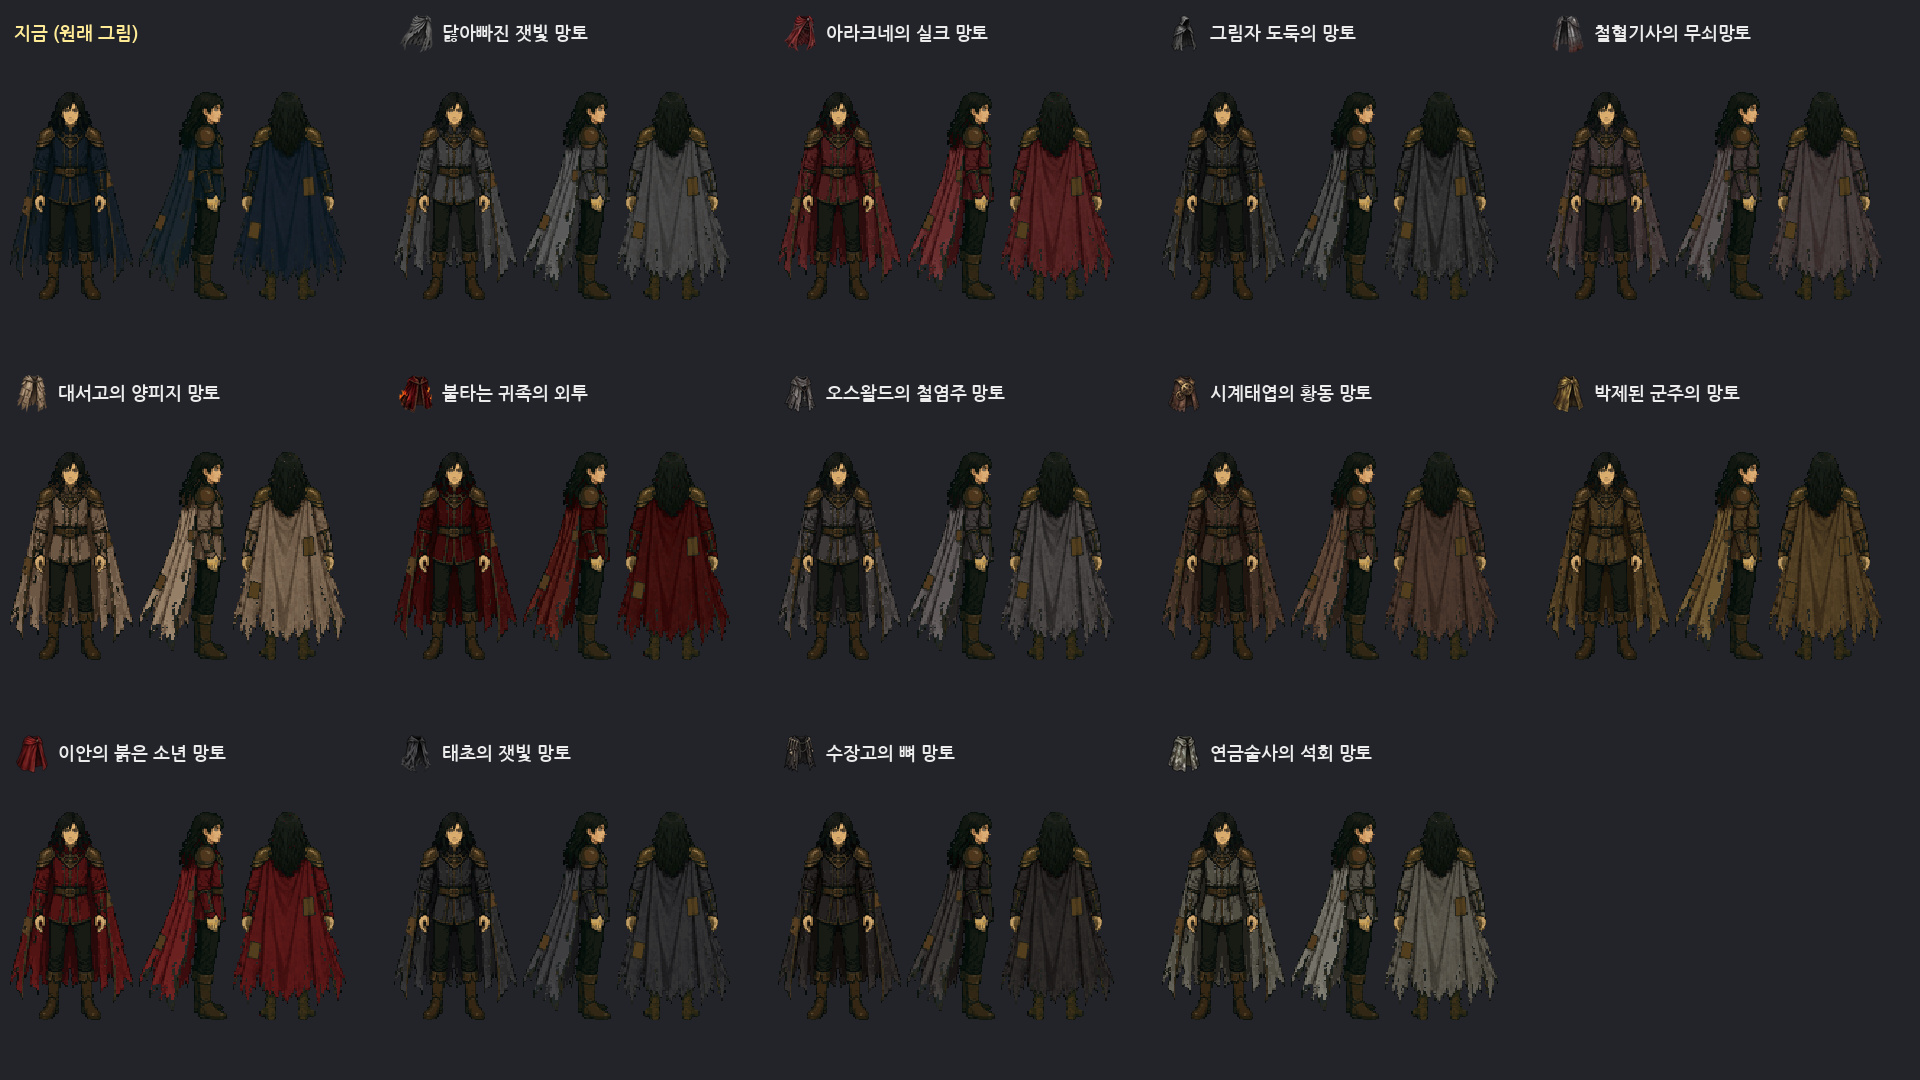
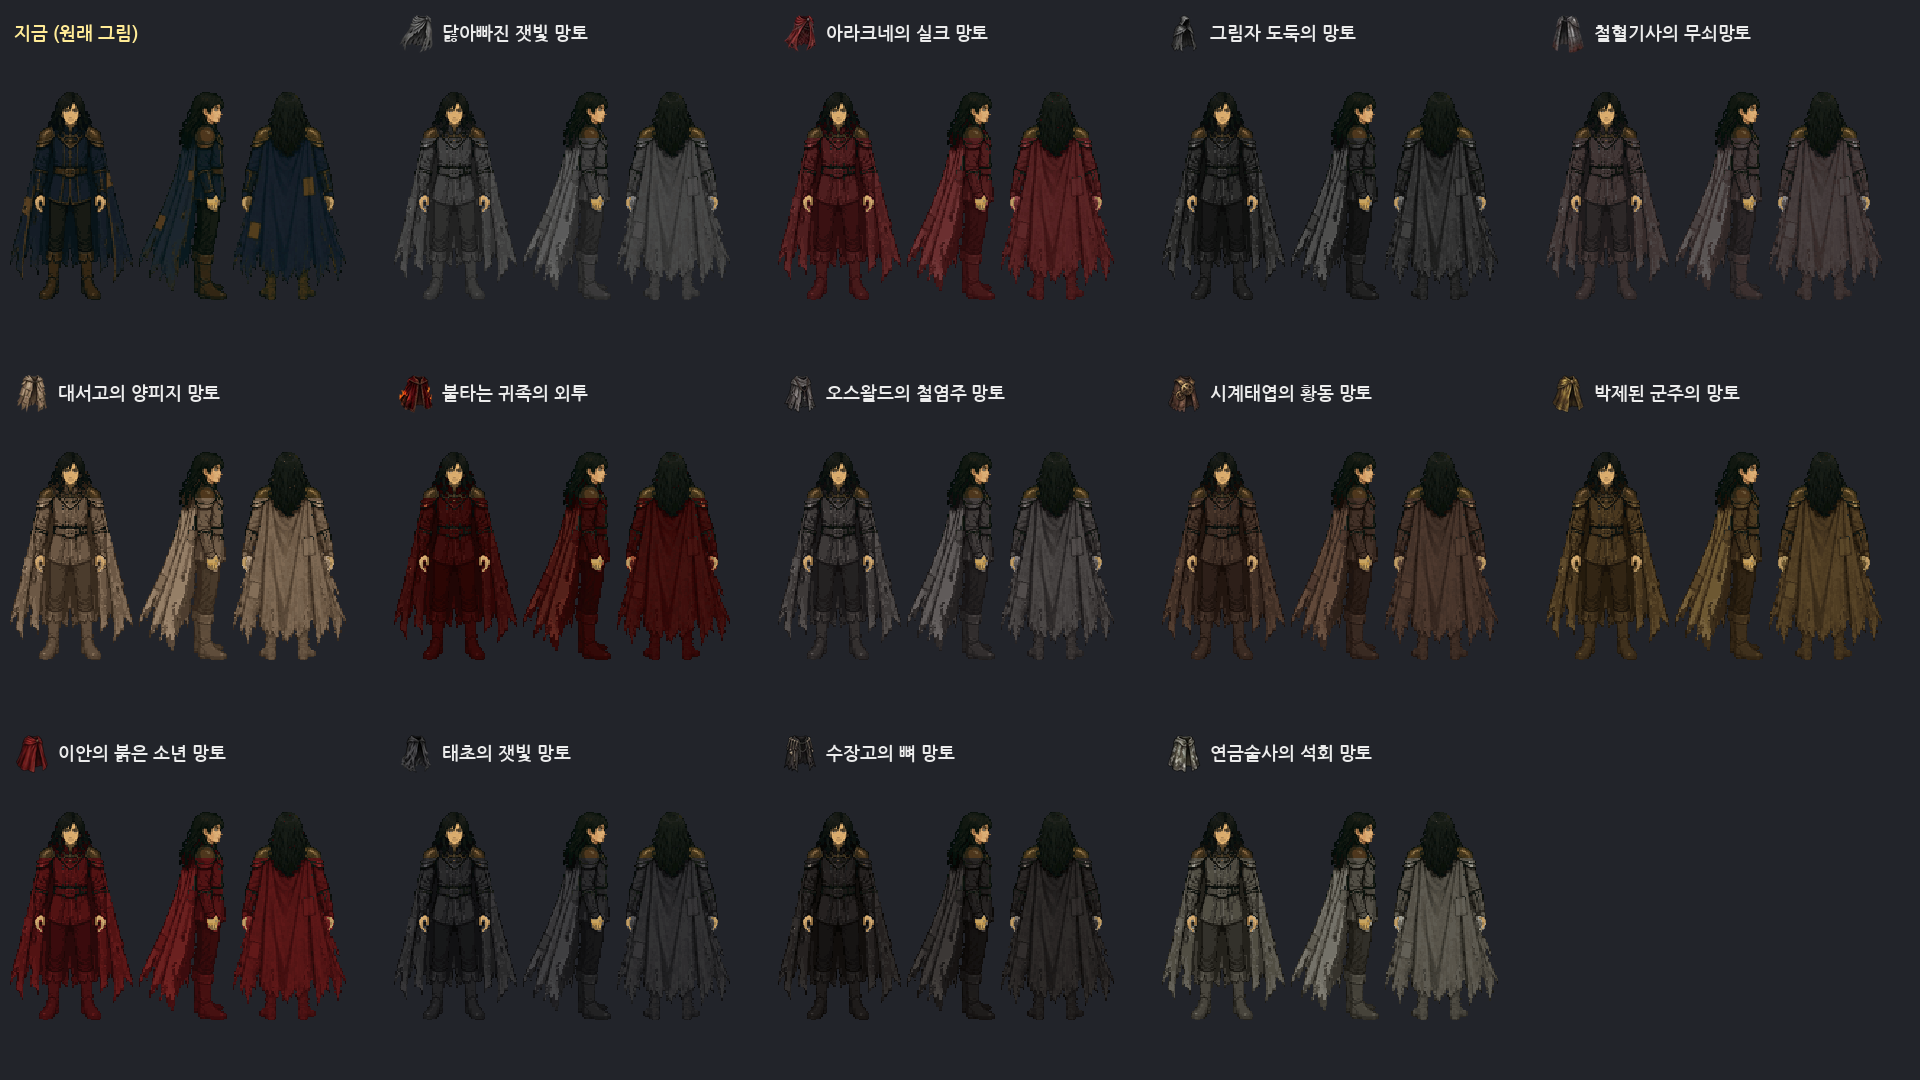
주인공 옷 전체 색 = 망토 색 (사장님 10-31 「바지색깔도」 「옷전체 색깔 다 바꿔야된다구」): 색판 1458색 [그대로/옷] 표 + 높이 규칙, 13종 표 다시, 교본
Claude-Session: https://claude.ai/code/session_01Ed92eTBNbhN1yf3zW3burX

diff --git a/handoff/claude/hero3_v1/outfit/outfit.py b/handoff/claude/hero3_v1/outfit/outfit.py
@@ -1,6 +1,7 @@
 # 망토 색에 맞춰 옷(코트+망토, 남색 부분 전부)을 같이 바꾸는 가안
 # 쓰는 법: python3 outfit.py → navy_mask.png(바뀌는 자리), outfit_sheet.png(망토별 옷 색). ic/<망토id>.webp = test128/assets/icons/grok/<id>_128.webp 복사본
-# 규칙(사장님 10-31 「망토색에 따라서 옷색깔도 전부 바꿔야」): 남색(파랑-빨강 ≥ 8) 칸 = 코트+망토 → 망토 아이콘 색 띠로 밝기 순서대로 바꿈. 밝기 기준은 서기 3장에서 한 번 정해 모든 장에 똑같이 씀.
+# 규칙(사장님 10-31 「망토색에 따라서 옷색깔도 전부 바꿔야」 「바지색깔도」 「옷전체 색깔 다」): 살·머리 빼고 옷 전체. 색판 1458색을 classify.py로 [그대로/옷] 나눔.
+# 옛 규칙: 남색(파랑-빨강 ≥ 8) 칸 = 코트+망토 → 망토 아이콘 색 띠로 밝기 순서대로 바꿈. 밝기 기준은 서기 3장에서 한 번 정해 모든 장에 똑같이 씀.
 from PIL import Image, ImageDraw, ImageFont
 import numpy as np
 import os
@@ -22,10 +23,35 @@ views=['down_face','right_face','up']
 src={v:np.array(Image.open(G+v+'.png').convert('RGBA')) for v in views}
 allv=np.concatenate([lum(src[v][...,:3].astype(float))[navy(src[v])] for v in views])
 P5,P50,P95=np.percentile(allv,[5,50,95]); print('남색 밝기 기준',P5,P50,P95)
-def recolor(a,R):
-    m=navy(a); b=a.astype(float).copy(); L=lum(b[...,:3])
-    t=0.5+(L-P50)/max(1,P95-P5)*0.8          # 모든 장에 같은 기준(장마다 안 바뀜)
-    idx=np.clip((t*(len(R)-1)).round().astype(int),0,len(R)-1)
+import json as _json
+CLS={tuple(int(t) for t in k.split(',')):v for k,v in _json.load(open(H+'palette_class.json')).items()}   # classify.py
+def outfit_mask(a,boxes=None):
+    """옷 칸 = 살·머리·눈 빼고 전부. boxes = 그림판 칸 [x,y,w,h,…] 목록(없으면 그림 전체가 한 사람)."""
+    r,g,b=[a[...,i].astype(int) for i in range(3)]; L=.299*r+.587*g+.114*b; op=a[...,3]>100
+    nv=(b-r>=8)&(b>=g-4); warm=(r-b>=10)
+    flat=a[...,:3].reshape(-1,3); keys=flat[:,0].astype(np.int64)*65536+flat[:,1].astype(np.int64)*256+flat[:,2]
+    keepk=np.array([c[0]*65536+c[1]*256+c[2] for c,v in CLS.items() if v=='keep'],np.int64)
+    voted_keep=np.isin(keys,keepk).reshape(a.shape[:2])
+    rel=np.ones(a.shape[:2])          # 사람 키 안에서 위→아래 0..1
+    if boxes is None: boxes=[(0,0,a.shape[1],a.shape[0])]
+    for bx in boxes:
+        x,y,w,h=bx[:4]; sub=op[y:y+h,x:x+w]; ys=np.nonzero(sub.any(1))[0]
+        if len(ys)==0: continue
+        t0,t1=ys.min(),ys.max()+1; yy=np.arange(h)[:,None]
+        rel[y:y+h,x:x+w]=np.broadcast_to((yy-t0)/max(1,t1-t0),(h,w))
+    skin=warm&(L>=95)&(r>b+30)
+    head=rel<0.22
+    dark=~nv&~warm&(L<50)
+    keep=skin|(warm&head)|(dark&(rel<0.42))|(warm&voted_keep&(L>=70))|(~nv&~warm&(L>=50))
+    return op&~keep
+def recolor(a,R,boxes=None):
+    # 옷 전체(사장님 10-31 「바지색깔도」 「옷전체 색깔 다 바꿔야된다구」): 코트·망토(남색) = 망토 색 띠 가운데, 바지·장화·허리띠·어깨 = 같은 띠에서 제 밝기대로. 살·머리는 그대로
+    m=outfit_mask(a,boxes); nv=navy(a)&m; ot=m&~nv
+    b=a.astype(float).copy(); L=lum(b[...,:3]); n=len(R)-1
+    t=np.zeros(L.shape)
+    t[nv]=0.5+(L[nv]-P50)/max(1,P95-P5)*0.8
+    t[ot]=0.08+(L[ot]-10)/75*0.85           # 어두운 바지 = 띠 아래쪽, 밝은 청동 = 띠 위쪽
+    idx=np.clip((t*n).round().astype(int),0,n)
     b[m,:3]=R[idx][m]; return b.astype(np.uint8),m
 if __name__=='__main__':
     # 남색 고른 자리 보기

diff --git a/handoff/claude/hero3_v1/outfit/classify.py b/handoff/claude/hero3_v1/outfit/classify.py
@@ -1,0 +1,31 @@
+# 주인공 색판(1458색) 하나하나를 [살·머리 = 그대로] / [옷 = 망토 색으로]로 나눔. 서기 3장에서 자리별로 표를 모아 정함.
+import numpy as np, json
+from PIL import Image
+H='/home/user/thor-like-game/handoff/claude/hero3_v1/'
+G=H+'game144/'
+V={'down_face':{'keep':[(94,106,116,129),(79,170,92,188),(116,170,129,188),(84,100,128,116),(80,112,94,134),(116,112,130,134)],
+               'out':[(90,136,120,182),(64,150,84,240),(126,150,149,240),(88,186,122,211),(84,214,124,245),(84,122,96,138),(114,122,128,138)]},
+   'right_face':{'keep':[(121,106,137,128),(117,170,131,190),(96,102,121,150)],
+               'out':[(112,130,140,182),(83,150,110,240),(112,186,140,246),(115,124,134,140)]},
+   'up':{'keep':[(88,102,120,168),(62,168,74,190),(134,168,146,190)],
+         'out':[(70,180,140,238),(72,130,88,165),(122,130,138,165),(80,222,126,246)]}}
+votes={}
+for v,R in V.items():
+    a=np.array(Image.open(G+v+'.png').convert('RGBA'))
+    for cls,boxes in R.items():
+        for x0,y0,x1,y1 in boxes:
+            c=a[y0:y1,x0:x1].reshape(-1,4); c=c[c[:,3]>100]
+            for px in c:
+                k=tuple(int(t) for t in px[:3]); votes.setdefault(k,[0,0]); votes[k][0 if cls=='keep' else 1]+=1
+allc={tuple(int(t) for t in px[:3]) for v in V for px in np.array(Image.open(G+v+'.png').convert('RGBA')).reshape(-1,4) if px[3]>100}
+def rule(c):
+    r,g,b=c; L=.299*r+.587*g+.114*b
+    if r>110 and r>b+30 and g>70 and r-g<70: return 'keep'   # 살색 비슷
+    return 'out'
+lab={}
+for c in allc:
+    k,o=votes.get(c,[0,0])
+    if k+o==0: lab[c]=rule(c)
+    else: lab[c]='keep' if k*1.0>o*1.5 else 'out'      # 애매하면 옷(남색 머리카락 끝은 옷 쪽으로 감)
+print('색',len(allc),'그대로',sum(1 for c in lab if lab[c]=='keep'),'옷',sum(1 for c in lab if lab[c]=='out'))
+json.dump({'%d,%d,%d'%c:l for c,l in lab.items()},open(H+'outfit/palette_class.json','w'))

diff --git a/handoff/claude/MOTION_TEXTBOOK_ko.md b/handoff/claude/MOTION_TEXTBOOK_ko.md
@@ -184,7 +184,7 @@
 - 맞기 3장·쓰러짐: **같은 얼굴**(아파하는 얼굴 그리지 않음), 몸짓으로.
 - 점프: 공중에서 다리 모음, 착지 자세는 땅에서만.
 - **공격 4타 + 칼 바꾸기 (사장님 10-31 「검을 4회 휘두를 거야」 「칼이 아이템이 바뀌면 주인공이 들고 있는 칼도 바꿔야」 「좋아 이걸로 하자」)**: 칼은 몸 그림에 굽지 않음. 그록 영상은 **분홍 한 가지 색 임시 칼**(`그록_부탁글_공격4타3.md`) → 장마다 손 자리·칼 각도·몸 앞/뒤를 재고 분홍은 지움 → 게임이 장착한 칼 그림을 그 자리·각도로 그림, 검흔·판정은 칼끝 길. **손에 드는 칼 그림** = 도감 아이콘(`test128/assets/icons/grok/<id>_128.webp`, 45°)을 세워 한 번 줄임(`hero3_v1/weapons_hand/make_hand.py`, 확정 길이: 장검 65·대검 85·창검 112칸 = 가안의 0.85배). 4타 = 가로베기 → 되돌려 베기 → 올려베기 → 내려찍기(마무리). **공속(휘두르는 빠르기)은 나중에 정함** (사장님 10-31 「공속은 나중에 정하지머」) → 지금은 영상 빠르기 그대로 넣고, 빠르기는 숫자 하나(배속)로 바꿀 수 있게 만든다.
-- **옷 색 = 망토 색 (사장님 10-31 「망토색에 따라서 옷색깔도 전부 바꿔야」)**: 망토를 바꾸면 코트+망토(그림의 남색 칸 전부)가 그 망토 색으로 같이 바뀜. 남색 칸 = 파랑−빨강 ≥ 8 (어깨 청동·띠·허리띠·덧댄 천·바지·장화·머리·얼굴은 안 바뀜). 망토 아이콘(`icons/grok/<id>_128.webp`) 색을 밝기 순서 띠로 만들어, 남색 밝기 순서대로 옮김. 밝기 기준(14·27·36)은 서기 3장에서 한 번 정해 **모든 장에 똑같이** 씀 → 달리기·뒤돌기·회피대시·공격 어느 장이든 같은 규칙으로 바뀜(게임 그림판 전체로 확인, 망토마다 따로 그림 안 그림). 도구 `hero3_v1/outfit/outfit.py`, 가안 `망토13종_옷색_가안.png`. 그래서 **그록 영상은 지금처럼 남색 옷 그대로** 받는다(하늘색 망토 표시 불필요).
+- **옷 전체 색 = 망토 색 (사장님 10-31 「망토색에 따라서 옷색깔도 전부」 「바지색깔도 바꿔야지」 「옷전체 색깔 다 바꿔야된다구」)**: 망토를 바꾸면 코트·망토·바지·장화·허리띠 가죽이 그 망토 색으로 같이 바뀜. 얼굴·손(살색)·머리·눈은 그대로, 어깨 청동은 밝은 곳만 남음. 주인공 그림판 색은 서기 3장 색판 **1458색 그대로**(그림판 색 = 서기 색 100%) → 색마다 [그대로/옷]을 한 번 정함(`classify.py`, 서기 3장 자리별 표) + 사람 키 안 높이(위 22% = 머리, 위 42% 안의 검은 칸 = 머리카락, 그 아래 검은 칸 = 바지). 칠하기: 망토 아이콘(`icons/grok/<id>_128.webp`) 색을 밝기 순서 띠로 → 남색(코트·망토)은 띠 가운데, 바지·장화·가죽은 같은 띠에서 제 밝기대로. 밝기 기준은 모든 장에 똑같이(장마다 안 바뀜). 그림판 전체(달리기·뒤돌기·회피대시)로 확인. 도구 `hero3_v1/outfit/outfit.py`·`classify.py`, 가안 `망토13종_옷색_가안.png`. 그록 영상은 지금처럼 남색 옷 그대로 받는다.
 - 공격: 한 동작(1·2·3타가 이어지는 한 줄)에서 칼끝 빠르기로 나눔(빠른 곳 = 휘두름, 느린 곳 = 자르는 곳). **검흔·검기는 코드**(칼끝이 지나간 길을 따라 띠, 판정 = 보이는 검기). 멈칫 1타 0.05 · 2타 0.066 · 3타 0.11 · 모아베기 0.15초.
 - 손맛(코드): 달리기 숙임 `EXAG.runLean`·과장 `EXAG.runEx`, 멈칫·맞은 몹 흔들림·꺾기 브레이크·입력 미리 받기 0.18초. 고칠 것은 코드로 먼저, 그림이 틀린 것만 다시 그림. 다듬기는 전·후 영상 먼저.
 

diff --git a/handoff/claude/TEAM_MEETING_TEXTBOOK_ko.md b/handoff/claude/TEAM_MEETING_TEXTBOOK_ko.md
@@ -539,7 +539,7 @@
 | 10-31 | 회피대시 자세 순서 | 사장님·팀장 | 가안(달리기 장 임시판) 보고 「괜찮네」 → 웅크림→밀기→낮게 내딛기→디딤→일어섬→서기, 진짜 그림은 그록 영상 3개(사장님이 부탁) | 모션 교과서 0부 12 |
 | 10-31 | 회피대시 그록 영상 | 사장님·팀장 | 영상 3개에서 5장씩(웅크림·밀기·낮게 내딛기·디딤·일어섬), 붕 뜬 장 빼고 흙먼지 지움, 장마다 몸통 맞춤 | 모션 교과서 0부 12·2-2v3 |
 | 10-31 | 공격 4타 · 칼 바꾸기 | 사장님·팀장 | 칼은 따로 그려 손에 붙임(장착 칼이 바뀌면 손 칼도), 그록은 분홍 임시 칼로 4번 휘두름, 손 칼 그림 = 도감 아이콘 세워 줄임(15% 줄인 것 「좋아 이걸로 하자」), 공속은 나중에 정함(「공속은 나중에 정하지머」 → 배속 숫자 하나로 조절) | 모션 교과서 0부 12, `hero3_v1/weapons_hand/` |
-| 10-31 | 옷 색 = 망토 색 | 사장님·팀장 | 「망토색에 따라서 옷색깔도 전부 바꿔야」 → 코트+망토(남색 칸 전부)를 장착 망토 아이콘 색으로 같이 바꿈, 모든 동작 그림에 같은 규칙. 그록 영상은 남색 옷 그대로(하늘색 망토 표시 안 함) | 모션 교과서 0부 12, `hero3_v1/outfit/` |
+| 10-31 | 옷 전체 색 = 망토 색 | 사장님·팀장 | 「망토색에 따라서 옷색깔도 전부」 「바지색깔도」 「옷전체 색깔 다 바꿔야된다구」 → 코트·망토·바지·장화·가죽을 장착 망토 색으로 같이 바꿈(얼굴·손·머리 그대로), 모든 동작 그림에 같은 규칙(색판 1458색 표). 그록 영상은 남색 옷 그대로 | 모션 교과서 0부 12, `hero3_v1/outfit/` |
 
 ---
 
